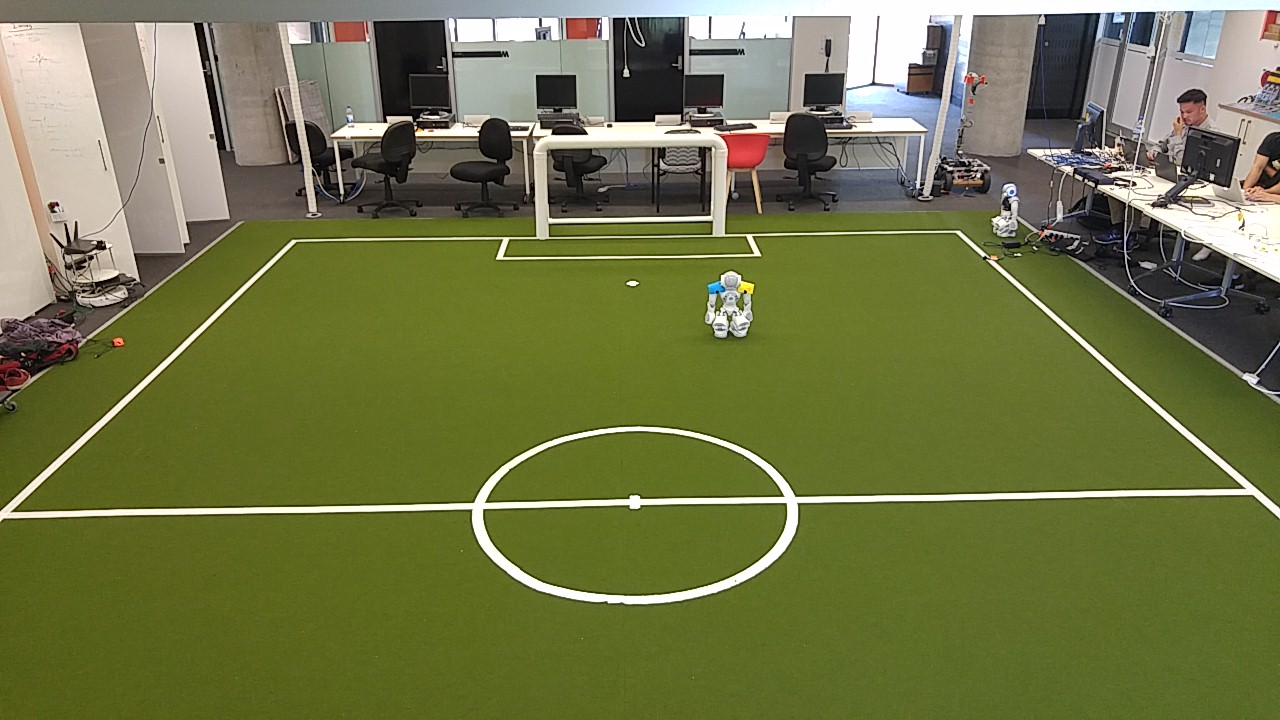
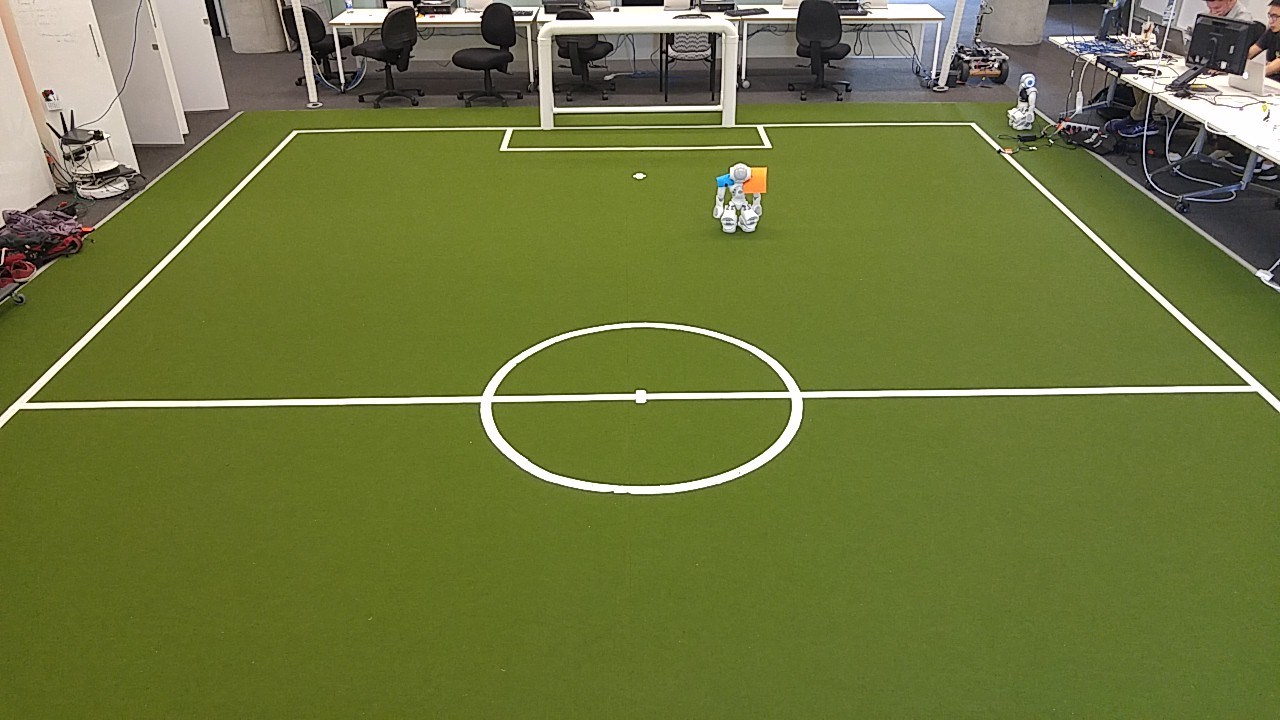
Works now with orange and blue

diff --git a/complex_robot_detection.py b/complex_robot_detection.py
@@ -29,8 +29,8 @@ def shoulder_height_adj(corners):
 	return corners
 
 def detect_blob(frame, colour):
-	HSVLower_dict = {'blue': (92, 155, 0), 'red': (0,200,0), 'yellow': (21, 104, 103)}
-	HSVUpper_dict = {'blue': (124, 255, 255), 'red': (19,255,255), 'yellow': (33, 255, 255)}
+	HSVLower_dict = {'blue': (92, 155, 0), 'red': (0,200,0), 'yellow': (21, 104, 103), 'orange': (0, 160, 0)}
+	HSVUpper_dict = {'blue': (124, 255, 255), 'red': (19,255,255), 'yellow': (33, 255, 255), 'orange': (25, 255, 255)}
 	HSVLower = HSVLower_dict[colour]
 	HSVUpper = HSVUpper_dict[colour]
 
@@ -70,39 +70,39 @@ def detect_blob(frame, colour):
 
 	return cnts;
 
-def find_yellow_and_blue(frame, target_frame, min_radius, min_distance):
-    Colour_dict = {'blue': (255, 0, 0), 'red': (0, 0, 255), 'yellow': (0, 255, 255)}
-    bluecnts = detect_blob(frame, 'blue')
-    yellowcnts = detect_blob(frame, 'yellow')
-    if bluecnts is None or yellowcnts is None:
+def find_left_and_right(frame, target_frame, min_radius, min_distance, left, right):
+    Colour_dict = {'blue': (255, 0, 0), 'red': (0, 0, 255), 'yellow': (0, 255, 255), 'orange': (0, 130, 255)}
+    rightcnts = detect_blob(frame, right)
+    leftcnts = detect_blob(frame, left)
+    if rightcnts is None or leftcnts is None:
         return ()
-    for bc in bluecnts:
-        ((xb, yb), bradius) = cv2.minEnclosingCircle(bc)
-        if (bradius < min_radius):
+    for rc in rightcnts:
+        ((xr, yr), rradius) = cv2.minEnclosingCircle(rc)
+        if (rradius < min_radius):
             continue
-        bM = cv2.moments(bc)
-        bx = int(bM["m10"] / bM["m00"])
-        by = int(bM["m01"] / bM["m00"])
-        bcentre = (bx, by)
-        for yc in yellowcnts:
-            ((xy, yy), yradius) = cv2.minEnclosingCircle(yc)
-            if (yradius < min_radius):
+        rM = cv2.moments(rc)
+        rx = int(rM["m10"] / rM["m00"])
+        ry = int(rM["m01"] / rM["m00"])
+        rcentre = (rx, ry)
+        for lc in leftcnts:
+            ((xl, yl), lradius) = cv2.minEnclosingCircle(lc)
+            if (lradius < min_radius):
                 continue
-            yM = cv2.moments(yc)
-            yx = int(yM["m10"] / yM["m00"])
-            yy = int(yM["m01"] / yM["m00"])
-            ycentre = (yx, yy)
-            if (bx - yx)**2 + (by - yy)**2 < min_distance**2:
-                cv2.circle(target_frame, (int(xb), int(yb)), int(bradius), Colour_dict['blue'], 2)
-                cv2.circle(target_frame, (int(xy), int(yy)), int(yradius), Colour_dict['yellow'], 2)
-                cv2.circle(target_frame, bcentre, 5, Colour_dict['blue'], -1)
-                cv2.circle(target_frame, ycentre, 5, Colour_dict['yellow'], -1)
-                return (bcentre, ycentre)
+            lM = cv2.moments(lc)
+            lx = int(lM["m10"] / lM["m00"])
+            ly = int(lM["m01"] / lM["m00"])
+            lcentre = (lx, ly)
+            if (rx - lx)**2 + (ry - ly)**2 < min_distance**2:
+                cv2.circle(target_frame, (int(xr), int(yr)), int(rradius), Colour_dict[right], 2)
+                cv2.circle(target_frame, (int(xl), int(yl)), int(lradius), Colour_dict[left], 2)
+                cv2.circle(target_frame, rcentre, 5, Colour_dict[right], -1)
+                cv2.circle(target_frame, lcentre, 5, Colour_dict[left], -1)
+                return (rcentre, lcentre)
 
 
 def main():
-    # actual_fn = '/home/vctr/Dropbox/_UNSW/Robocup/vctr_field_transform/actual_field_half.png'
-    actual_fn = '/Users/Martin/Github/RSA-Major-Project-2016/actual_field_half.png'
+    actual_fn = '/home/vctr/Dropbox/_UNSW/Robocup/vctr_field_transform/actual_field_half.png'
+    #actual_fn = '/Users/Martin/Github/RSA-Major-Project-2016/actual_field_half.png'
     actual_img = cv2.imread(actual_fn)
     actual_img_resize = cv2.resize(actual_img,(FIELD_LENGTH / 2, FIELD_WIDTH), interpolation = cv2.INTER_LINEAR)
 
@@ -149,17 +149,21 @@ def main():
 
         #Blue on right shoulder
         #yellow on left shoulder
-        result = find_yellow_and_blue(dst_persp_rot, actual_img_resize, min_radius=5, min_distance=400)
+        result = find_left_and_right(dst_persp_rot, actual_img_resize, min_radius=2, min_distance=50, left='orange', right='blue')
         if result is not None:
-            (blue_centre, yellow_centre) = result
-        # blue_centre = detect_blob(dst_persp_rot, actual_img_resize, 'blue')
-        # yellow_centre = detect_blob(dst_persp_rot, actual_img_resize, 'yellow')
-        # blue_centre = detect_blob(dst_persp_rot, dst_persp_rot, 'blue')
-        # yellow_centre = detect_blob(dst_persp_rot, dst_persp_rot, 'yellow')
+            (right_centre, left_centre) = result
+        # right_centre = detect_blob(dst_persp_rot, actual_img_resize, 'right')
+        # left_centre = detect_blob(dst_persp_rot, actual_img_resize, 'left')
+        # right_centre = detect_blob(dst_persp_rot, dst_persp_rot, 'right')
+        # left_centre = detect_blob(dst_persp_rot, dst_persp_rot, 'left')
 
             try:
-                Location = [(blue_centre[0] + yellow_centre[0]) / 2, (blue_centre[1] + yellow_centre[1]) / 2]
-                neg_Gradient = (blue_centre[0] - yellow_centre[0] / (yellow_centre[1] - blue_centre[1]))
+                Location = [(right_centre[0] + left_centre[0]) / 2, (right_centre[1] + left_centre[1]) / 2]
+                
+
+
+
+                neg_Gradient = (right_centre[0] - left_centre[0] / (left_centre[1] - right_centre[1]))
                 Heading = math.atan(neg_Gradient)
 
                 Line_end = Location[:]

diff --git a/playback.py b/playback.py
@@ -1,0 +1,128 @@
+import cv2
+import numpy as np
+import sys
+import math
+#from matplotlib import pyplot as plt
+
+FIELD_WIDTH = 6000 / 10
+FIELD_LENGTH = 9000 / 10
+
+
+
+
+def detect_blob(frame, target_frame, colour):
+	HSVLower_dict = {'blue': (92, 155, 0), 'red': (0,200,0), 'yellow': (21, 104, 103)}
+	HSVUpper_dict = {'blue': (124, 255, 255), 'red': (19,255,255), 'yellow': (33, 255, 255)}
+	Colour_dict = {'blue': (255, 0, 0), 'red': (0, 0, 255), 'yellow': (0, 255, 255)}
+	colour_BGR = Colour_dict[colour]
+	HSVLower = HSVLower_dict[colour]
+	HSVUpper = HSVUpper_dict[colour]
+
+	hsv = cv2.cvtColor(frame, cv2.COLOR_BGR2HSV)
+
+	# construct a mask for the color "blue", then perform
+	# a series of dilations and erosions to remove any small
+	# blobs left in the mask
+	mask = cv2.inRange(hsv, HSVLower, HSVUpper)
+	mask = cv2.erode(mask, None, iterations=2)
+	mask = cv2.dilate(mask, None, iterations=2)
+	# find contours in the mask and initialize the current
+	# (x, y) center of the ball
+
+	cnts = cv2.findContours(mask.copy(), cv2.RETR_EXTERNAL,
+		cv2.CHAIN_APPROX_SIMPLE)[-2]
+	center = None
+
+	# only proceed if at least one contour was found
+	if len(cnts) > 0:
+		# find the largest contour in the mask, then use
+		# it to compute the minimum enclosing circle and
+		# centroid
+		c = max(cnts, key=cv2.contourArea)
+		((x, y), radius) = cv2.minEnclosingCircle(c)
+		M = cv2.moments(c)
+		center = (int(M["m10"] / M["m00"]), int(M["m01"] / M["m00"]))
+
+		# only proceed if the radius meets a minimum size
+		if radius > 10:
+			# draw the circle and centroid on the frame,
+			# then update the list of tracked points
+			cv2.circle(target_frame, (int(x), int(y)), int(radius),
+				colour_BGR, 2)
+			cv2.circle(target_frame, center, 5, colour_BGR, -1)
+	return center
+
+
+def main():
+	actual_fn = '/home/vctr/Dropbox/_UNSW/Robocup/vctr_field_transform/actual_field_half.png'
+	actual_img = cv2.imread(actual_fn)
+ 	actual_img_resize = cv2.resize(actual_img,(FIELD_LENGTH / 2, FIELD_WIDTH), interpolation = cv2.INTER_LINEAR)
+
+	cv2.namedWindow('Playback')
+
+	lines = []
+
+	with open('log.txt') as f:
+		for line in f:
+			lines.append(line)
+
+
+		actual_img = cv2.imread(actual_fn)
+ 		actual_img_resize = cv2.resize(actual_img,(FIELD_LENGTH / 2, FIELD_WIDTH), interpolation = cv2.INTER_LINEAR)
+		
+		print line
+
+			'''
+
+
+
+		ret, img = cap.read()
+
+		pts1 = np.float32(corners)
+
+		pts2 = np.float32(actual_corners)
+
+		M_perspec = cv2.getPerspectiveTransform(pts1,pts2)
+
+		dst_persp = cv2.warpPerspective(img,M_perspec,(FIELD_WIDTH, FIELD_LENGTH / 2))
+
+		M_rot = cv2.getRotationMatrix2D((FIELD_WIDTH / 2, FIELD_LENGTH / 4),90,1)
+		M_rot[0][2] += FIELD_LENGTH / 4 - FIELD_WIDTH / 2
+		M_rot[1][2] += FIELD_WIDTH / 2 - FIELD_LENGTH / 4
+
+		dst_persp_rot = cv2.warpAffine(dst_persp,M_rot, (FIELD_LENGTH / 2, FIELD_WIDTH) )
+		#print dst_persp_rot.shape
+
+		actual_img_resize = cv2.resize(actual_img,(FIELD_LENGTH / 2, FIELD_WIDTH), interpolation = cv2.INTER_CUBIC)
+
+		#Blue on right shoulder
+		#Red on left shoulder
+		blue_centre = detect_blob(dst_persp_rot, actual_img_resize, 'blue')
+		yellow_centre = detect_blob(dst_persp_rot, actual_img_resize, 'yellow')
+
+		try:
+			Location = [(blue_centre[0] + yellow_centre[0]) / 2, (blue_centre[1] + yellow_centre[1]) / 2]
+			neg_Gradient = (blue_centre[0] - yellow_centre[0] / (yellow_centre[1] - blue_centre[1]))
+			Heading = math.atan(neg_Gradient)
+
+			Line_end = Location[:]
+			run = 100
+			Line_end[0] += run
+			Line_end[1] += run * neg_Gradient
+
+			cv2.line(actual_img_resize, (Location[0], Location[1]), (Line_end[0], Line_end[1]), (0, 0, 0), 5)
+
+			print "Location: " + str(Location)
+			print "Heading: " + str(Heading)
+		except (TypeError, ZeroDivisionError) as e:
+			pass
+
+		cv2.imshow('Robot detection', actual_img_resize) #dst_persp_rot)
+		ch = cv2.waitKey(5) & 0xFF
+		if ch == 27:
+			break
+
+			'''
+
+if __name__ == '__main__':
+	main()

diff --git a/robot_detection.py b/robot_detection.py
@@ -72,14 +72,14 @@ def detect_blob(frame, target_frame, colour):
 
 
 def main():
-    # actual_fn = '/home/vctr/Dropbox/_UNSW/Robocup/vctr_field_transform/actual_field_half.png'
-    actual_fn = '/Users/Martin/Github/RSA-Major-Project-2016/actual_field_half.png'
+    actual_fn = '/home/vctr/Dropbox/_UNSW/Robocup/vctr_field_transform/actual_field_half.png'
+    #actual_fn = '/Users/Martin/Github/RSA-Major-Project-2016/actual_field_half.png'
     actual_img = cv2.imread(actual_fn)
     actual_img_resize = cv2.resize(actual_img,(FIELD_LENGTH / 2, FIELD_WIDTH), interpolation = cv2.INTER_LINEAR)
 
     # cap = cv2.VideoCapture(0)
-    # cap = cv2.VideoCapture('http://10.0.18.6:8080/videofeed?dummy=param.mjpg')
-    img = cv2.imread('/Users/Martin/Github/RSA-Major-Project-2016/field_image_colour_cal_2.JPG')
+    cap = cv2.VideoCapture('http://10.0.18.6:8080/videofeed?dummy=param.mjpg')
+    #img = cv2.imread('/Users/Martin/Github/RSA-Major-Project-2016/field_image_colour_cal_2.JPG')
 
     corners_file = file('corners.txt', 'r')
 
@@ -99,7 +99,7 @@ def main():
     cv2.namedWindow('Robot detection')
 
     while True:
-        # ret, img = cap.read()
+        ret, img = cap.read()
 
         pts1 = np.float32(corners)
 
@@ -135,7 +135,7 @@ def main():
             Line_end[0] += run
             Line_end[1] += run * neg_Gradient
 
-			cv2.line(actual_img_resize, (Location[0], Location[1]), (Line_end[0], Line_end[1]), (0, 0, 0), 5)
+            cv2.line(actual_img_resize, (Location[0], Location[1]), (Line_end[0], Line_end[1]), (0, 0, 0), 5)
 
             print "Location: " + str(Location)
             print "Heading: " + str(Heading)

diff --git a/corner_calibrate.py b/corner_calibrate.py
@@ -18,7 +18,7 @@ if __name__ == "__main__":
     corners_file = file('corners.txt', 'w')
     corners_string = ''
 
-    # fn = '/home/vctr/Dropbox/_UNSW/Robocup/vctr_field_transform/field_image_colour_cal_2.JPG'
+    #fn = '/home/vctr/Dropbox/_UNSW/Robocup/vctr_field_transform/testphotosat1340.JPG'
     # fn = '/Users/Martin/Github/RSA-Major-Project-2016/field_image_colour_cal_2.JPG'
     fn = './' + sys.argv[1]
     size = Image.open(fn).size
